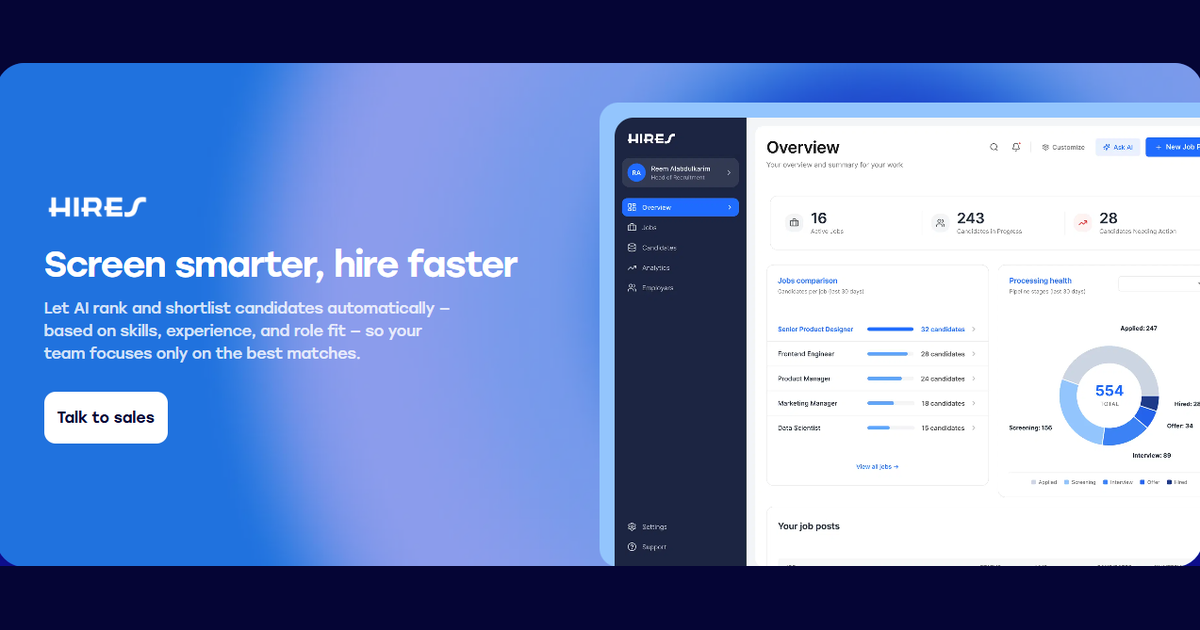
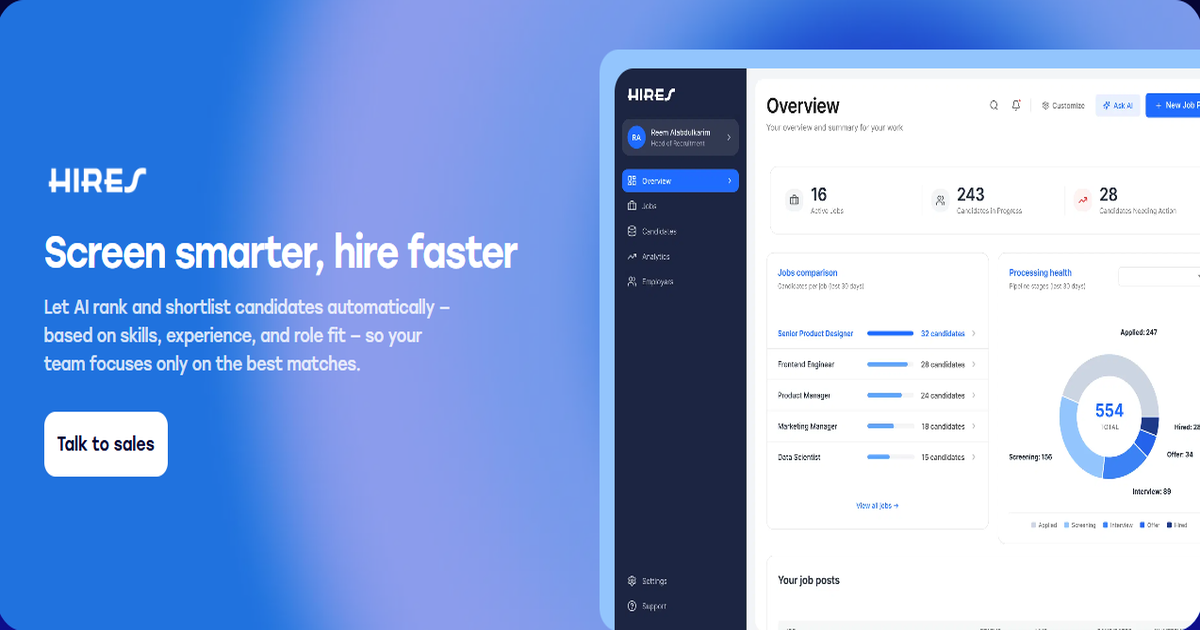
Fix OG image crop, unify /hires title with /products, bump to v=4

diff --git a/src/app/hires/layout.tsx b/src/app/hires/layout.tsx
@@ -1,21 +1,21 @@
 import type { Metadata } from "next";
 
 export const metadata: Metadata = {
-  title: "Hires - Smart Hiring Platform",
+  title: "Hires - AI-Powered Hiring Platform",
   description:
-    "Hires by Corenet is an AI-powered hiring platform that helps companies in Saudi Arabia screen smarter, manage candidate pipelines, and hire faster — saving up to SR 8,500 per hire.",
+    "Explore Corenet's AI-powered hiring products. Smarter screening, candidate pipelines, career pages, and analytics built for companies in Saudi Arabia and the MENA region.",
   openGraph: {
-    title: "Hires - Smart Hiring Platform by Corenet",
+    title: "Hires - AI-Powered Hiring Platform",
     description:
-      "AI-powered hiring platform for companies in Saudi Arabia. Screen smarter, hire faster, save up to SR 8,500 per hire.",
+      "Smarter screening, candidate pipelines, career pages, and analytics — built for companies in Saudi Arabia.",
     url: "https://www.corenet.sa/hires",
-    images: [{ url: "/images/og-hires.png?v=3", width: 1200, height: 630, alt: "Hires by Corenet" }],
+    images: [{ url: "/images/og-hires.png?v=4", width: 1200, height: 630, alt: "Hires by Corenet" }],
   },
   twitter: {
     card: "summary_large_image",
-    title: "Hires - Smart Hiring Platform by Corenet",
-    description: "AI-powered hiring for Saudi Arabia. Screen smarter, hire faster.",
-    images: ["/images/og-hires.png?v=3"],
+    title: "Hires - AI-Powered Hiring Platform",
+    description: "Smarter screening, candidate pipelines, career pages, and analytics.",
+    images: ["/images/og-hires.png?v=4"],
   },
   alternates: { canonical: "/hires" },
 };

diff --git a/src/app/products/layout.tsx b/src/app/products/layout.tsx
@@ -9,13 +9,13 @@ export const metadata: Metadata = {
     description:
       "Smarter screening, candidate pipelines, career pages, and analytics — built for companies in Saudi Arabia.",
     url: "https://www.corenet.sa/products",
-    images: [{ url: "/images/og-hires.png?v=3", width: 1200, height: 630, alt: "Hires - AI-Powered Hiring Platform" }],
+    images: [{ url: "/images/og-hires.png?v=4", width: 1200, height: 630, alt: "Hires - AI-Powered Hiring Platform" }],
   },
   twitter: {
     card: "summary_large_image",
     title: "Hires - AI-Powered Hiring Platform",
     description: "Smarter screening, candidate pipelines, career pages, and analytics.",
-    images: ["/images/og-hires.png?v=3"],
+    images: ["/images/og-hires.png?v=4"],
   },
   alternates: { canonical: "/products" },
 };
